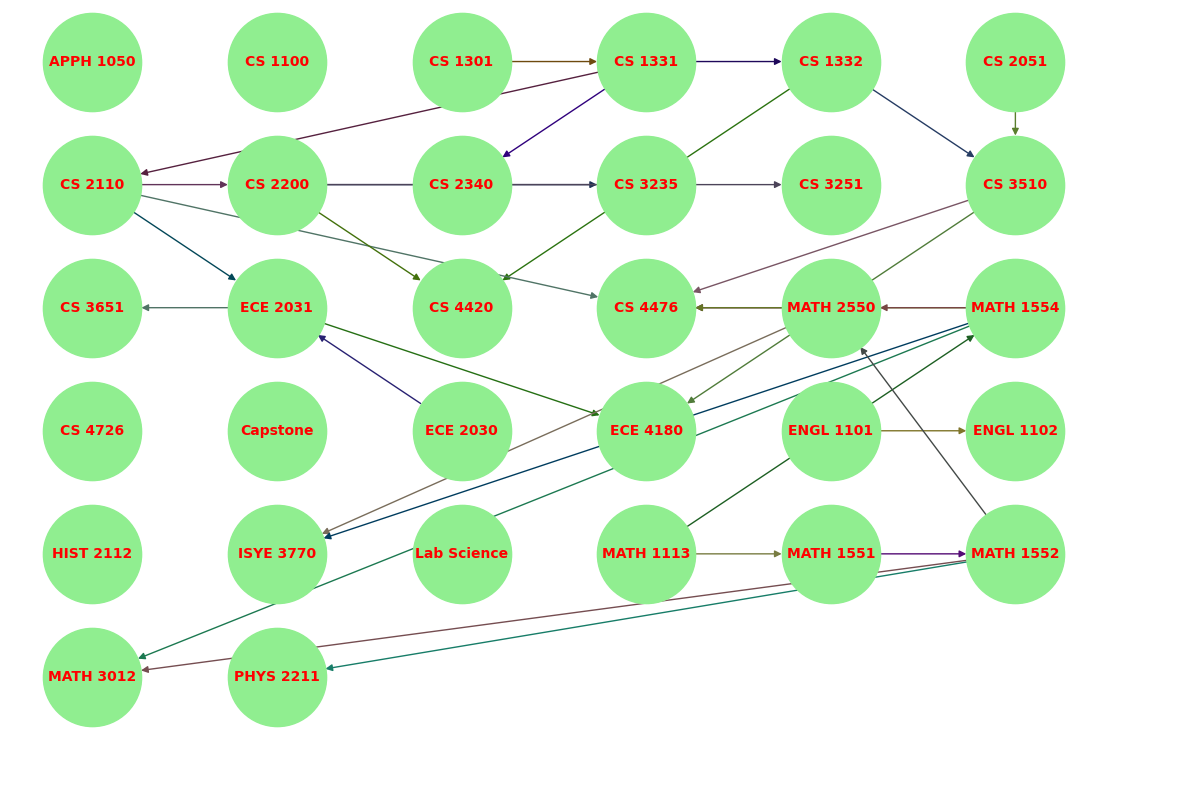
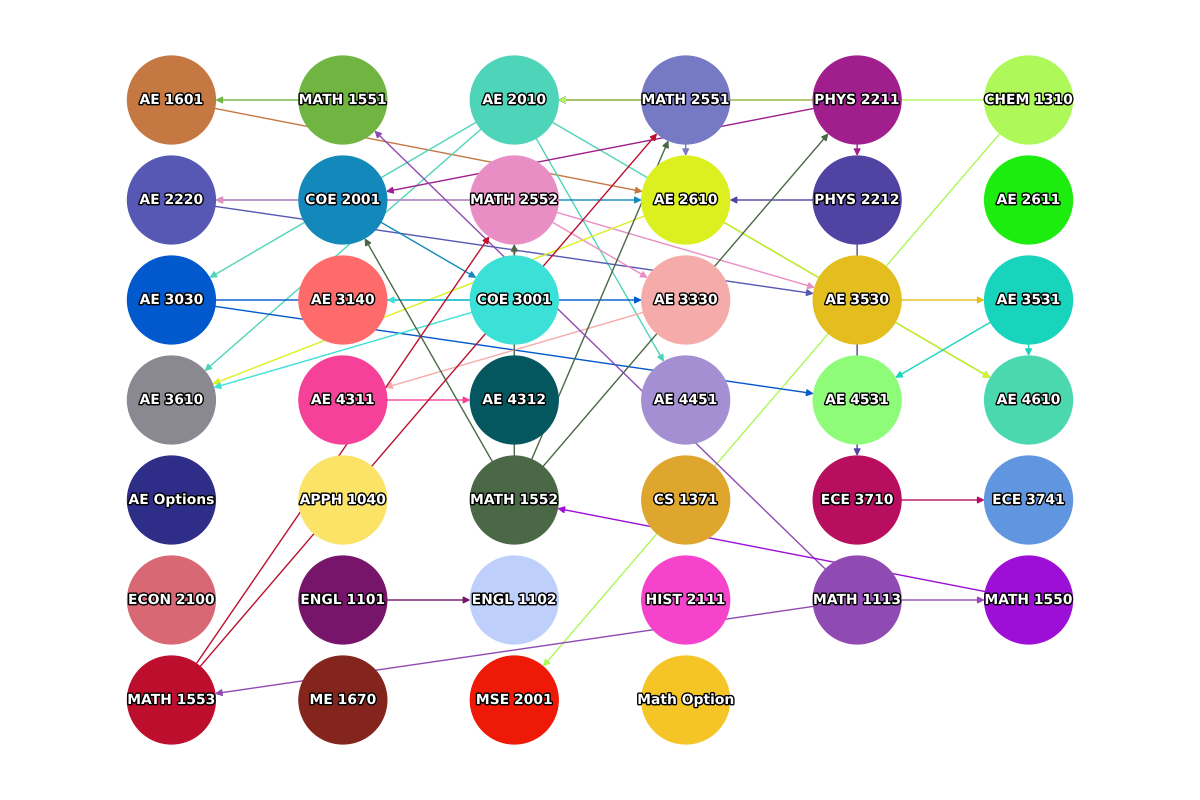
Minor bug fixes and made graph_maker neater

diff --git a/Backend/frontend_files/graph_maker.py b/Backend/frontend_files/graph_maker.py
@@ -1,6 +1,7 @@
 import json
 import networkx as nx
 import matplotlib.pyplot as plt
+import matplotlib.patheffects as path_effects
 import random
 
 # Load the list of selected courses
@@ -42,9 +43,15 @@ def build_selected_courses_graph(selected_courses, prereq_graph):
 
     return G
 
-# Generate random color for edges
-def random_color():
-    return [random.uniform(0, 0.5) for _ in range(3)]  # Generate dark RGB values
+# Assign random colors to each node and ensure edges have the color of the originating node
+def assign_colors(G):
+    # Assign a unique color to each node
+    node_colors = {node: [random.random() for _ in range(3)] for node in G.nodes()}
+
+    # Create a list of edge colors based on the starting node color
+    edge_colors = [node_colors[edge[0]] for edge in G.edges()]
+    
+    return node_colors, edge_colors
 
 # Visualize the graph in a grid-like layout
 def visualize_selected_courses_graph(G):
@@ -52,27 +59,45 @@ def visualize_selected_courses_graph(G):
     
     # Create a grid layout for the nodes
     grid_size = int(len(G.nodes)**0.5) + 1  # Determine the grid size
+    num_nodes = len(G.nodes)
+    num_columns = 6
+    num_rows = (num_nodes + num_columns - 1) // num_columns
     pos = {}
 
     for idx, node in enumerate(G.nodes):
         # Calculate the row and column for the grid
-        row = idx // grid_size
-        col = idx % grid_size
+        row = idx // num_columns
+        col = idx % num_columns
         
         # Position nodes in a grid format
         pos[node] = (col, -row)  # Negate row to display in a standard Cartesian layout
 
-    # Draw the graph with edges and nodes
-    edge_colors = [random_color() for _ in G.edges()]
-    nx.draw(G, pos, with_labels=True, node_size=5000, node_color="lightgreen", 
-            font_color='red',font_size=10, font_weight="bold", arrows=True, edge_color=edge_colors)
+    # Get colors for nodes and edges
+    node_colors, edge_colors = assign_colors(G)
+    
+    # Draw the graph nodes and edges without labels
+    nx.draw(G, pos, with_labels=False, node_size=4000, 
+            node_color=[node_colors[node] for node in G.nodes()], 
+            arrows=True, edge_color=edge_colors)
+
+    # Manually add labels with a black outline and white center
+    for node, (x, y) in pos.items():
+        plt.text(x, y, node, fontsize=10, fontweight='bold', ha='center', va='center',
+                 color='white',  # White text color
+                 path_effects=[plt.matplotlib.patheffects.Stroke(linewidth=2, foreground='black'), 
+                               plt.matplotlib.patheffects.Normal()])
+
     
     # Add title and grid
     plt.title("Selected Courses Prerequisite Graph")
     plt.grid(True, linestyle='--', linewidth=0.5)
-    plt.xlim(-1, grid_size)
-    plt.ylim(-grid_size, 1)
-    plt.show()
+    plt.xlim(-1, num_columns)
+    plt.ylim(-num_rows, 1)
+    #plt.show()
+
+    # Save the image
+    plt.savefig('Backend/frontend_files/graph_image.png')  # Save as PNG
+    plt.close()  # Close the figure to free memory
 
 # Save the graph as an image
 def save_graph_image(G):
@@ -84,8 +109,11 @@ def save_graph_image(G):
         col = idx % grid_size
         pos[node] = (col * 2, -row * 2)
 
-    edge_colors = [random_color() for _ in G.edges()]
-    nx.draw(G, pos, with_labels=True, node_size=5000, node_color="lightgreen", 
+    # Get colors for nodes and edges
+    node_colors, edge_colors = assign_colors(G)
+    
+    # Draw and save the graph
+    nx.draw(G, pos, with_labels=True, node_size=5000, node_color=[node_colors[node] for node in G.nodes()], 
             font_color='red', font_size=10, font_weight="bold", arrows=True, edge_color=edge_colors)
     
     plt.title("Selected Courses Prerequisite Graph")
@@ -97,10 +125,11 @@ def save_graph_image(G):
     plt.savefig('Backend/frontend_files/graph_image.png')  # Save as PNG
     plt.close()  # Close the figure to free memory
 
-# Build the prerequisite graph from the JSON data
-prereq_graph = build_prereq_graph(program_courses)
+def main():
+    # Build the prerequisite graph from the JSON data
+    prereq_graph = build_prereq_graph(program_courses)
 
-# Build and visualize the graph based on selected courses
-G = build_selected_courses_graph(selected_courses, prereq_graph)
-visualize_selected_courses_graph(G)
-save_graph_image(G)
+    # Build and visualize the graph based on selected courses
+    G = build_selected_courses_graph(selected_courses, prereq_graph)
+    visualize_selected_courses_graph(G)
+    #save_graph_image(G)

diff --git a/Backend/frontend_files/demo_run.py b/Backend/frontend_files/demo_run.py
@@ -12,6 +12,7 @@ Next page goes through the json file for major and asks which course to take for
 import json
 from prereq_chooser import get_prereqs 
 import re
+from graph_maker import main
 
 with open('Backend/frontend_files/program_courses.json', 'r') as json_file:
     courses = json.load(json_file)
@@ -386,5 +387,5 @@ print(courses_to_take)
 with open("./Backend/frontend_files/courses_picked.json", "w") as f:
     f.write(json.dumps(courses_to_take, indent=2))
 
-
+main()
 

diff --git a/Backend/frontend_files/prereq_chooser.py b/Backend/frontend_files/prereq_chooser.py
@@ -13,7 +13,7 @@ def get_prereqs(course, chosen_prereqs):
     print(code)
     if code not in list(program_courses.keys()):
         return
-    prereqs = program_courses[code][course]
+    prereqs = program_courses[code].get(course)
 
     # Output the prerequisites for this course
     print(f"\nCourse: {course}")
